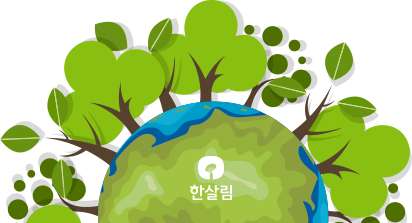
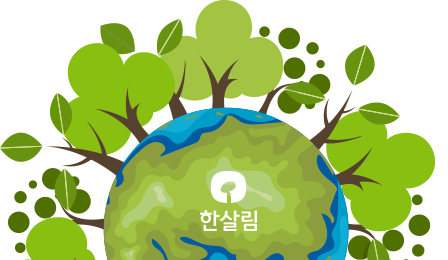
요리, 캠페인, 브랜드관, 선물택배,  새로 공급하는 물품, 조합원 추천 물품, 특별품 주문일정 탑 배너 영역 클래스 및 이미지 수정

diff --git a/css/common.css b/css/common.css
@@ -1793,17 +1793,37 @@ table .good-table table th {padding:0;}
 /* 배너 스타일 상단 비주엉 영역 */
 .banner-title {
 	height:200px;
-	margin-top:-45px;
+	margin-top:-60px;
 }
 
-.banner-title.bg1 {background-color:#d6f6eb;}
-.banner-title.bg2 {background-color:#dfdbfe;}
-.banner-title.bg3 {background-color:#dbfdda;}
-.banner-title.bg4 {background-color:#fdd9dd;}
-.banner-title.bg5 {background-color:#d8edfe;}
-.banner-title.bg6 {background-color:#fdf2d8;}
-.banner-title.bg7,
-.banner-title2.bg7  {background-color:#e9fdd8;}
+.banner-title.bg1 {background-color:#fdf2d8;}
+.banner-title.bg1 .title-inner {
+	background:url(../img/bg/bg_title1.png) no-repeat 100% 100%;
+}
+.banner-title.bg2 {background-color:#e9fdd8;}
+.banner-title.bg2 .title-inner {
+	background:url(../img/bg/bg_title3.png) no-repeat 100% 100%;
+}
+.banner-title.bg3 {background-color:#d6f6eb;}
+.banner-title.bg3 .title-inner {
+	background:url(../img/bg/bg_title4.png) no-repeat 100% 100%;
+}
+.banner-title.bg4 {background-color:#d6f6eb;}
+.banner-title.bg4 .title-inner {
+	background:url(../img/bg/bg_title5.png) no-repeat 100% 100%;
+}
+.banner-title.bg5 {background-color:#d8e4fd;}
+.banner-title.bg5 .title-inner {
+	background:url(../img/bg/bg_title6.png) no-repeat 100% 100%;
+}
+.banner-title.bg6 {background-color:#fdf5de;}
+.banner-title.bg6 .title-inner {
+	background:url(../img/bg/bg_title7.png) no-repeat 100% 100%;
+}
+.banner-title2.bg7 {background-color:#e9fdd8;}
+.banner-title2.bg7 .title-inner {
+	background:url(../img/bg/bg_title2.png) no-repeat 100% 100%;
+}
 	.banner-title .title-inner {
 		overflow:hidden;
 		width:1120px;
@@ -1811,7 +1831,6 @@ table .good-table table th {padding:0;}
 		margin:0 auto;
 		padding-top:50px;
 		box-sizing:border-box;
-		background:url(../img/bg/bg_title1.png) no-repeat 100% 100%;
 		line-height:120px;
 	}
 
@@ -1831,7 +1850,7 @@ table .good-table table th {padding:0;}
 
 .banner-title2 {
 	height:260px;
-	margin-top:-45px;
+	margin-top:-60px;
 }
 	.banner-title2 .title-inner{
 		overflow:hidden;
@@ -1854,12 +1873,6 @@ table .good-table table th {padding:0;}
 		color:#666;
 		font-size:15px;
 	}
-
-	.banner-title2.campaign .title-inner {background:url(../img/bg/bg_title2.png) right bottom no-repeat;}
-
-
-
-	.banner-title {}
 
 /* 타이틀 박스 */
 .title-wrap {

diff --git a/im/pd/IM-PD0203.html b/im/pd/IM-PD0203.html
@@ -854,14 +854,18 @@
 			</div>
 		</div>
 
+		<!-- 20170407 content gray first - > content first 로 변경 -->
 		<div class="content first">
+		<!-- //20170407 content gray first - > content first 로 변경 -->
 			<div class="content-w1120">
 				<div class="align-center">
 					<h2 class="cTitle1">멥쌀/찹쌀</h2>
 				</div>
 
 				<!--배너 이미지 개수와  goods-slide-pager의 개수를 맞춰준 뒤 goods-slide-pager의 클래스를 추가해준다 -->
+				<!-- 20170407 goods-banner - > goods-banner mgT20 로 변경 -->
 				<div class="goods-banner mgT20">
+				<!-- //20170407 goods-banner - > goods-banner mgT20 로 변경 -->
 					<ul class="goods-slide">
 						<li><img src="../../img/temp/@temp_category1.jpg" alt="temp1"></li>
 						<li><img src="../../img/temp/@temp_category2.jpg" alt="temp2"></li>

diff --git a/im/pd/IM-PD2010.html b/im/pd/IM-PD2010.html
@@ -837,10 +837,12 @@
 				<span class="item">특별품 주문일정</span>
 			</div>
 		</div>
-		<div class="banner-title bg1">
+		<!-- 20170407 bg1 > bg2 로 변경 -->
+		<div class="banner-title bg2">
+		<!-- //20170407 bg1 > bg2 로 변경 -->
 			<div class="title-inner">
 				<h2 class="title">특별품 주문일정</h2>
-				<p class="text">한살림의 특별품 일정을 알려드립니다</p>
+				<!-- 20170407 <p class="text">한살림의 특별품 일정을 알려드립니다</p> 삭제 -->
 			</div>
 		</div>
 		<div class="content pdT60">

diff --git a/im/pd/IM-PD030102.html b/im/pd/IM-PD030102.html
@@ -837,8 +837,9 @@
 				<span class="item">조합원 추천물품</span>
 			</div>
 		</div>
-
-		<div class="banner-title bg3">
+		<!-- 20170407 banner-title bg3 -> banner-title bg4 -->
+		<div class="banner-title bg4">
+		<!-- 20170407 banner-title bg3 -> banner-title bg4 -->
 			<div class="title-inner">
 				<h2 class="title">조합원 추천물품</h2>
 				<p class="text">한살림만의 다양한 맞춤형 추천물품 입니다</p>

diff --git a/im/pd/IM-PD030101.html b/im/pd/IM-PD030101.html
@@ -837,11 +837,10 @@
 				<span class="item">새로 공급하는 물품</span>
 			</div>
 		</div>
-
-		<div class="banner-title bg2">
+		<div class="banner-title bg3">
 			<div class="title-inner">
 				<h2 class="title">새로 공급하는 물품</h2>
-				<p class="text">한살림만의 신선함을 느껴보세요</p>
+				<!-- 20170407 <p class="text">한살림만의 신선함을 느껴보세요</p>삭제 -->
 			</div>
 		</div>
 

diff --git a/im/pd/IM-PD060101.html b/im/pd/IM-PD060101.html
@@ -837,8 +837,9 @@
 				<span class="item">선물택배</span>
 			</div>
 		</div>
-
-		<div class="banner-title bg5">
+		<!-- 20170407 banner-title bg5 -> banner-title bg6 -->
+		<div class="banner-title bg6">
+		<!-- //20170407 banner-title bg5 -> banner-title bg6 -->
 			<div class="title-inner">
 				<h2 class="title">선물택배</h2>
 				<p class="text">언제든 소중한 분에게 한살림을 선물하세요</p>

diff --git a/im/pd/IM-PD040101.html b/im/pd/IM-PD040101.html
@@ -837,8 +837,9 @@
 				<span class="item">브랜드 관</span>
 			</div>
 		</div>
-
-		<div class="banner-title bg4">
+		<!-- 20170407 banner-title bg4 -> banner-title bg5 -->
+		<div class="banner-title bg5">
+		<!-- 20170407 banner-title bg4 -> banner-title bg5 -->
 			<div class="title-inner">
 				<h2 class="title">브랜드관</h2>
 				<p class="text">한살림과 함께하는 브랜드를 소개합니다</p>

diff --git a/im/fo/IM-FO0101.html b/im/fo/IM-FO0101.html
@@ -836,7 +836,9 @@
 				<span class="item">요리</span>
 			</div>
 		</div>
-		<div class="banner-title bg6">
+		<!-- 20170407 banner-title bg6 -> banner-title bg1 -->
+		<div class="banner-title bg1">
+		<!-- //20170407 banner-title bg6 -> banner-title bg1 -->
 			<div class="title-inner">
 				<h2 class="title">요 리</h2>
 				<p class="text">생명의 밥 한그릇 살림밥상, 한살림입니다</p>

diff --git a/im/fo/IM-FO0102.html b/im/fo/IM-FO0102.html
@@ -836,7 +836,9 @@
 				<span class="item">요리</span>
 			</div>
 		</div>
-		<div class="banner-title bg6">
+		<!-- 20170407 banner-title bg6 -> banner-title bg1 -->
+		<div class="banner-title bg1">
+		<!-- //20170407 banner-title bg6 -> banner-title bg1 -->
 			<div class="title-inner">
 				<h2 class="title">요 리</h2>
 				<p class="text">생명의 밥 한그릇 살림밥상, 한살림입니다</p>

diff --git a/im/fo/IM-FO0102_noresult.html b/im/fo/IM-FO0102_noresult.html
@@ -836,7 +836,9 @@
 				<span class="item">요리</span>
 			</div>
 		</div>
-		<div class="banner-title bg6">
+		<!-- 20170407 banner-title bg6 -> banner-title bg1 -->
+		<div class="banner-title bg1">
+		<!-- //20170407 banner-title bg6 -> banner-title bg1 -->
 			<div class="title-inner">
 				<h2 class="title">요 리</h2>
 				<p class="text">생명의 밥 한그릇 살림밥상, 한살림입니다</p>

diff --git a/im/pd/IM-PD0202.html b/im/pd/IM-PD0202.html
@@ -854,7 +854,9 @@
 			</div>
 		</div>
 
+		<!-- 20170407 content gray first - > content first 로 변경 -->
 		<div class="content first">
+		<!-- //20170407 content gray first - > content first 로 변경 -->
 			<div class="content-w1120">
 				<div class="align-center">
 					<h2 class="cTitle1">쌀/잡곡</h2>
